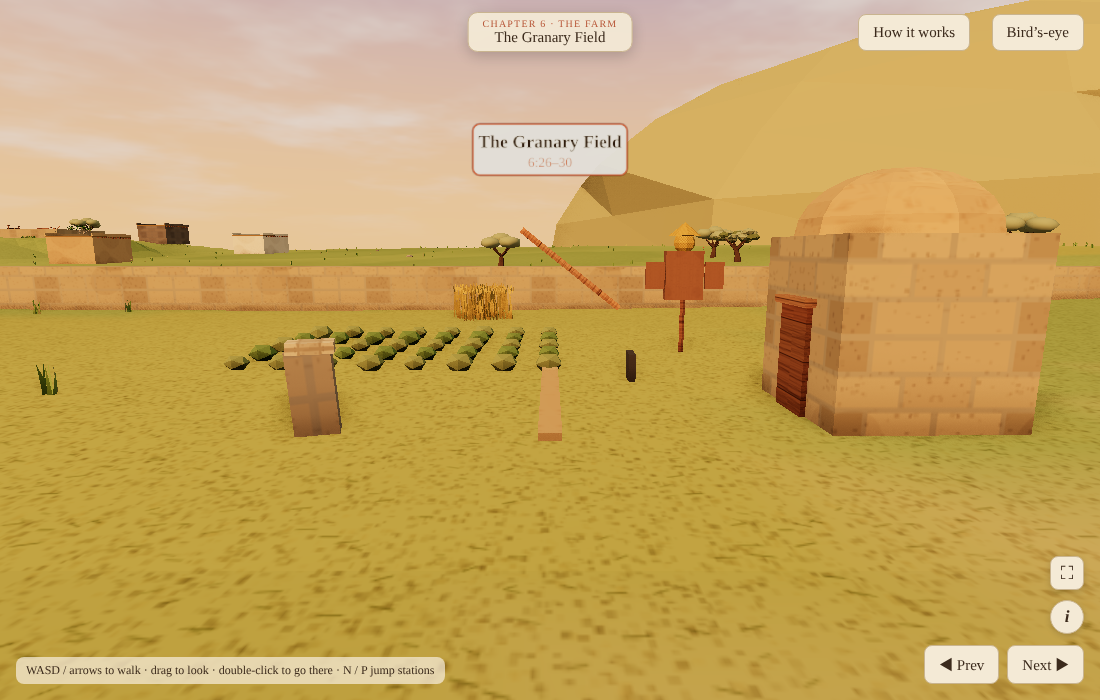
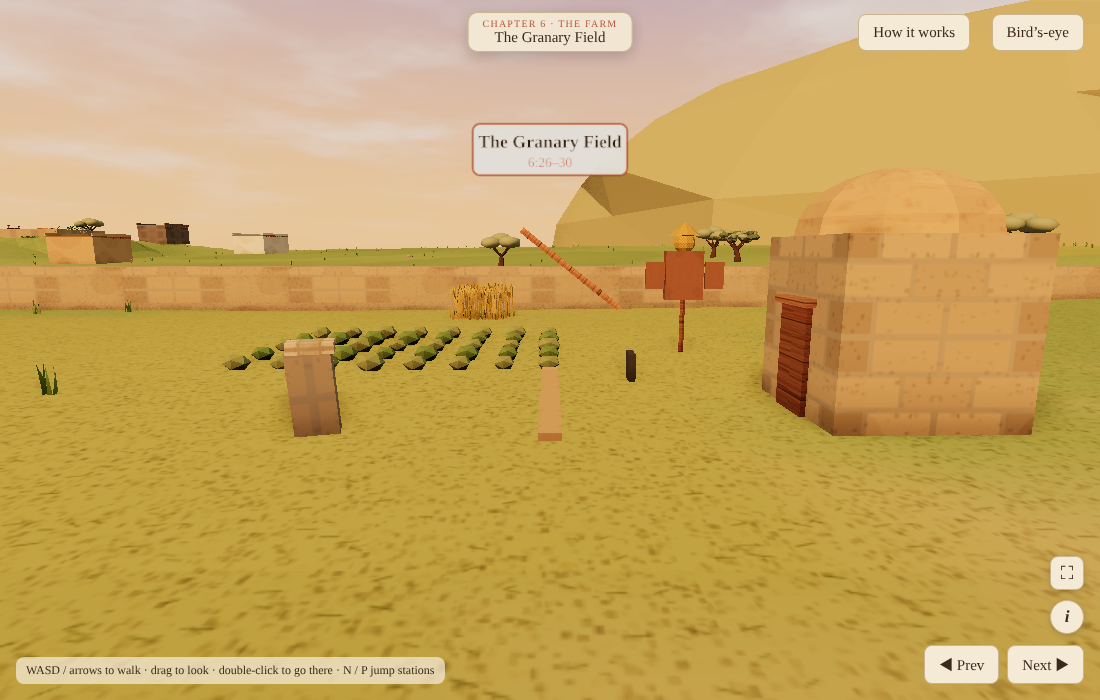
som-ltm: entry court round 4 (stone roller and manger, curtain, tethered donkey, shutter)
Claude-Session: https://claude.ai/code/session_011GTaBjBmrRYMxR8CbFEKPF

diff --git a/som-ltm/world/farm.js b/som-ltm/world/farm.js
@@ -44,7 +44,7 @@ const HOUSE_ROOFS = [];
   box(3.2, .45, .7, mat('somLintel', '#6e5236', { }), 131.6, heightAt(131.6, -14) + 2.5, -14);   // a timber lintel over the door
   for (let x = 118.4; x < 150; x += .9) { const b = box(.16, .16, .5, 'wood', x, heightAt(x, -14) + 2.95, -13.6); }   // roof-beam ends showing under the cornice
   const st = mat('somPlasterStain', '#b8a888', { transparent: true, opacity: .55 }); for (const [x, w, hh] of [[122, 2.2, .8], [126.5, 1.4, 1.2], [137.5, 2.6, .7], [143, 1.6, 1.0], [147.5, 2, .9]]) { const p = add(new THREE.PlaneGeometry(w, hh), st, x, heightAt(x, -14) + .55 + hh / 2, -13.73); p.rotation.y = Math.PI; }   // stains and patches low on the plaster
-  box(.9, .7, .1, darkM, 139.5, heightAt(139.5, -14) + 1.7, -13.72); box(1.1, .1, .2, 'wood', 139.5, heightAt(139.5, -14) + 2.08, -13.7); }   // a small window
+  box(.9, .7, .1, mat('somWindowDim', '#4a3a2c'), 139.5, heightAt(139.5, -14) + 1.7, -13.72); { const sh = box(.45, .7, .05, 'wood', 139.2, heightAt(139.5, -14) + 1.7, -13.4); sh.rotation.y = .9; } for (let k = 0; k < 3; k++) add(new THREE.TorusGeometry(.22 - k * .02, .035, 5, 14), mat('somCord', '#c8b48a'), 126.5, heightAt(126.5, -14) + 1.6 - k * .05, -13.68); box(1.1, .1, .2, 'wood', 139.5, heightAt(139.5, -14) + 2.08, -13.7); }   // a small window   // a wooden shutter swung open; a coil of rope hung on the wall
 // ---- 6.1 THE COURTYARD (6:1–5): gate pier · curtained doorway · stair to the roof · roof-roller · cistern lid ----
 defBuilder('som.court', (r, { ch }) => { const F = roomFrame(r), h = 2.6, sp = SQ(h).map(([f, s]) => F.at(f, s)), out = [];
   // the paved court in front of the farmhouse; the house front is the farmhouse's north wall (f = 3.4), its door at s = -3.6 … -1.2
@@ -56,16 +56,17 @@ defBuilder('som.court', (r, { ch }) => { const F = roomFrame(r), h = 2.6, sp = S
   { const g = atR(F, 3.4, 0); box(32.6, .22, .8, paleM, 2, 3.15, 0, g); box(32.6, .5, .3, plasterM, 2, 3.37, .25, g); box(32.6, .35, .62, dryStone, 2, -.05, 0, g); }
   { const [px, pz] = F.at(5.4, -2.4), y = heightAt(px, pz); const pr = box(4.4, .3, 4.2, mat('somRoofEarth', '#b49a72'), px, y + 3, pz); pr.castShadow = true; HOUSE_ROOFS.push(pr);
     for (const sd of [-3.7, -1.1]) { const [wx, wz] = F.at(5.4, sd); const w = box(.3, 3, 4, plasterM, wx, heightAt(wx, wz) - .1, wz); w.rotation.y = F.yaw; } }   // the dim entry passage you see through the door
-  { const g = atR(F, 3.25, -2.4); const cur = mat('somCurtain', '#a8523a'); cur.map = TEX.cloth; box(.55, 2.05, .05, cur, .9, .05, 0, g); for (let k = 0; k < 4; k++) box(.12, 2.05, .07, cur, -1.05 + k * .08, .05, .05, g).rotation.y = k * .2; cyl(.025, .025, 2.6, 5, 'wood', 0, 2.15, 0, g).rotation.z = Math.PI / 2; box(.12, .08, .1, mat('somCord', '#c8b48a'), -.9, 1.1, .02, g);
+  { const g = atR(F, 3.25, -2.4); const cur = mat('somCurtain', '#a8523a'); cur.map = TEX.cloth; box(1.2, 2.05, .05, cur, .6, .05, 0, g); for (let k = 0; k < 4; k++) box(.12, 2.05, .07, cur, -1.05 + k * .08, .05, .05, g).rotation.y = k * .2; cyl(.025, .025, 2.6, 5, 'wood', 0, 2.15, 0, g).rotation.z = Math.PI / 2; box(.12, .08, .1, mat('somCord', '#c8b48a'), -.9, 1.1, .02, g);
     out.push(ground(F.at(3.0, -2.4), 1.2)); }   // 2: the doorway, its curtain half drawn and tied back on one side
   { const n = 10; for (let k = 0; k < n; k++) { const [x, z] = F.at(2.95, 1.0 + k * .34); const st = box(.34, .3 * (k + 1), .85, stoneT, x, heightAt(x, z) - .02, z); st.rotation.y = F.yaw + Math.PI / 2; }
     const [x2, z2] = F.at(2.95, 1.0 + n * .34 + .3); out.push(ground(F.at(2.95, 2.6), 1.7)); }   // 3: the stone stair rising along the house front to the flat roof
-  { const g = atR(F, -h, h, .2); const rm = mat('somRollerStone', '#8e877c'); rm.map = TEX.stone; rm.color.set('#c4beb2'); const c = cyl(.32, .32, 1.15, 14, rm, 0, .32, 0, g); c.rotation.z = Math.PI / 2; c.position.y = .32;
-    for (const sd of [-1, 1]) { const pin = cyl(.045, .045, .2, 6, 'wood', sd * .66, .32, 0, g); pin.rotation.z = Math.PI / 2; pin.position.y = .32; } out.push(ground(sp[3], .68)); }   // 4: the stone roof-roller with its wooden handle frame
-  { const g = atR(F, 0, 0, Math.PI / 2); const rough = mat('somMangerStone', '#9c9282'); rough.map = TEX.stone; box(2.0, .3, 1.0, rough, 0, 0, 0, g); for (const sd of [-1, 1]) { box(2.0, .5, .2, rough, 0, .3, sd * .4, g); box(.2, .5, .6, rough, sd * .9, .3, 0, g); }   // a hollow trough cut from one stone, thick rough rims
+  { const g = atR(F, -h, h, .2); const rm = mat('somRollerStone', '#8e877c'); rm.map = TEX.stone; rm.color.set('#a8a49c'); const c = cyl(.32, .32, 1.15, 14, rm, 0, .32, 0, g); c.rotation.z = Math.PI / 2; c.position.y = .32;
+    for (const sd of [-1, 1]) { const pin = cyl(.05, .05, .24, 8, ironM, sd * .66, .32, 0, g); pin.rotation.z = Math.PI / 2; pin.position.y = .32; } out.push(ground(sp[3], .68)); }   // 4: the stone roof-roller with its wooden handle frame
+  { const g = atR(F, 0, 0, Math.PI / 2); const rough = mat('somMangerLime', '#cfc6b4'); rough.map = TEX.stone; box(2.0, .3, 1.0, rough, 0, 0, 0, g); for (const sd of [-1, 1]) { box(2.0, .5, .2, rough, 0, .3, sd * .4, g); box(.2, .5, .6, rough, sd * .9, .3, 0, g); }   // a hollow trough cut from one stone, thick rough rims
     box(1.6, .02, .6, darkM, 0, .31, 0, g); for (let k = 0; k < 40; k++) box(R(.25, .55), .03, .035, strawM, R(-.7, .7), R(.34, .62), R(-.22, .22), g).rotation.set(R(-.3, .3), R(0, 3), 0);   // heaped with straw
     out.push({ x: F.x, z: F.z, y: F.y + .95 }); { const [bx, bz] = F.at(.2, -1.25); libAt('wooden-bucket', bx, bz, 0, 1); } }   // 5: a big carved stone manger with straw
-  { const [x, z] = F.at(.3, -h - .4); libAt('grey-donkey', x, z, F.yaw + Math.PI / 2, 1); const [tx, tz] = F.at(-.8, -h - .8); cyl(.06, .07, 1.1, 6, 'wood', tx, heightAt(tx, tz), tz); add(new THREE.TorusGeometry(.07, .015, 4, 8), ironM, tx, heightAt(tx, tz) + 1, tz); }   // the donkey tied to a post by the left wall
+  { const [x, z] = F.at(1.3, -h - .2); libAt('grey-donkey', x, z, F.yaw + Math.PI / 2, 1); const [tx, tz] = F.at(-.8, -h - .8); cyl(.06, .07, 1.1, 6, 'wood', tx, heightAt(tx, tz), tz); add(new THREE.TorusGeometry(.07, .015, 4, 8), ironM, tx, heightAt(tx, tz) + 1, tz);
+    { const [ax, az] = F.at(-.75, -h - .75), [bx2, bz2] = F.at(1.9, -h - .3), y0 = heightAt(ax, az) + 1, y1 = heightAt(bx2, bz2) + 1.05, L = Math.hypot(bx2 - ax, bz2 - az, y1 - y0); const rp = cyl(.015, .015, L, 4, mat('somCord', '#c8b48a'), 0, 0, 0); rp.position.set((ax + bx2) / 2, (y0 + y1) / 2, (az + bz2) / 2); rp.lookAt(bx2, y1, bz2); rp.rotateX(Math.PI / 2); } }   // the donkey tied to a post by the left wall
   for (const [f, s, id, sc] of [[2.7, -.2, 'big-jar', 1], [2.6, .35, 'big-jar', .85], [1.4, 3.3, 'water-pail', 1], [-.6, 3.4, 'flour-sack', 1], [2.4, 4.4, 'fig-tree', .8]]) { const [x, z] = F.at(f, s); libAt(id, x, z, R(0, 6), sc); }   // jars by the door, a sack, a basket, a fig tree in the corner
   { const [x, z] = F.at(.5, 3.55); const b = box(1.8, .45, .45, stoneT, x, heightAt(x, z), z); b.rotation.y = F.yaw + Math.PI / 2; }   // a stone bench against the right wall
   for (let k = 0; k < 12; k++) { const [x, z] = F.at(R(-.6, .6), R(-1.3, 1.3)); box(R(.2, .5), .02, .03, strawM, x, heightAt(x, z) + .09, z).rotation.y = R(0, 3); }   // straw scattered round the manger
@@ -142,7 +143,7 @@ defBuilder('som.press', (r, { ch }) => { const F = roomFrame(r), h = 2.4, sp = S
 
 buildRooms(2);
 VIA['2.1'] = [[104, 2], [110, 0], [122, -3], [130, -3]];             // from the Watchtower down to the farm's upper gate
-VIA['2.2'] = [[134, -8], [132, -12], [131.6, -15], [131.5, -19], [130, -23]];   // through the front door, then left into the storeroom
+VIA['2.2'] = [[134, -8], [131.6, -12], [131.0, -15], [131.0, -19], [130, -23]];   // through the front door, then left into the storeroom
 VIA['2.3'] = [[131, -26], [131, -32], [129, -35]];                    // back out to the central court, along to the kitchen
 VIA['2.4'] = [[131, -37], [134, -39], [134, -41.5]];                  // out of the back door into the cistern court
 VIA['2.5'] = [[138, -44], [143, -44]];                                // across the cistern court to the stall
